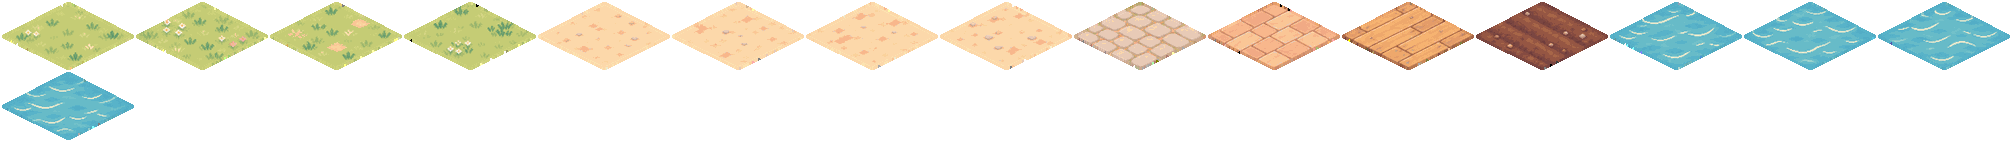
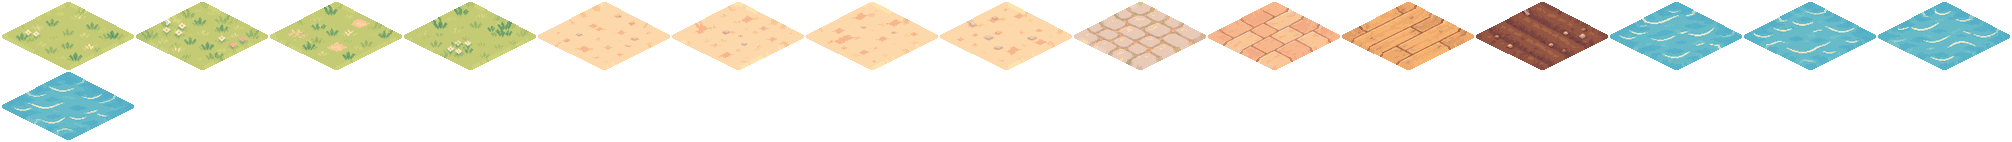
Mano Colony: isometric village with free building, decorating and co-op construction
- 96x96 diamond map (centre 48x48 open, eight outer zones), seeded terrain
  with a winding creek, pond, groves and rock fields; every new village gets
  its own seed, saved with it
- build menu by category; free placement with a green/red preview and a
  reason; paths and fences drawn by finger (two fingers move the map),
  repainting is free; gates replace a fence piece and Manos walk through them
- select a building to upgrade, move (free, cancel restores it), demolish
  (50% back, sites 100%, refund once); decorations go to the storage box
- construction is real work: progress is the sum of Manos hammering on site,
  crew +/- with assigned / working counts and a live ETA
- renderer: culled ground with shorelines and path fringes, depth by footprint,
  mip copies for smooth zoomed-out views; drag, pinch, wheel, zoom buttons
- save v3 with migration from v1/v2 (old save kept under pre-v3, never
  overwritten on failure); storage notice on first run and in settings
- assets rebuilt from the 13 new sheets (originals kept untouched)

Claude-Session: https://claude.ai/code/session_0129eFqVev3PTL5Z78DGK587

diff --git a/src/colony/ColonyPage.jsx b/src/colony/ColonyPage.jsx
@@ -284,7 +284,8 @@ export default function ColonyPage({ exitHref = '#/' }) {
       g.active = true
       g.wasFull = s.manos.length >= homes(s)
       if (!s.notice.storage) queue.unshift({ kind: 'notice', first: true })
-      if (notes.length) queue.push({ kind: 'notes', title: noteTitle || '알림', notes })
+      // things to read go in a box; a short confirmation is a toast
+      if (notes.length && noteTitle) queue.push({ kind: 'notes', title: noteTitle, notes })
       setModals(queue)
       setSel(null)
       setMode(null)
@@ -293,6 +294,7 @@ export default function ColonyPage({ exitHref = '#/' }) {
       if (store.available) g.save()
       else setSaveState({ ok: false, error: 'unavailable' })
       g.lookHome?.()
+      if (!noteTitle) setTimeout(() => notes.forEach((n) => toast(n, n, 'info')), 50)
     }
 
     g.fromStorage = () => {
@@ -314,7 +316,10 @@ export default function ColonyPage({ exitHref = '#/' }) {
       if (r.data && (r.data.tutorial.step > 0 || r.data.buildings.length)) r.data.tutorial.done = true
       const notes = []
       let title = ''
-      if (r.status === 'restored') notes.push('저장본이 손상되어 직전 백업으로 복구했어요.')
+      if (r.status === 'restored') {
+        title = '저장 데이터 복구'
+        notes.push('저장본이 손상되어 직전 백업으로 복구했어요. 손상된 데이터는 따로 보관해 두었어요.')
+      }
       if (r.status === 'migrated' || (r.status === 'restored' && r.from < SAVE.version)) {
         title = '새 마을 지도로 옮겼어요'
         notes.push('예전 저장을 새 대각선 지도로 옮겼어요. 자원·주민·건물 레벨과 공사 진행은 그대로예요.', ...(r.notes || []))
@@ -752,7 +757,7 @@ export default function ColonyPage({ exitHref = '#/' }) {
       const r = m.tool === 'fence' ? sim.placeFence(S, W, cells) : sim.paintFloors(S, W, m.tool === 'erase' ? null : m.type, cells)
       if (!r.ok) return toast(reasonText(r), 'paint', 'warn')
       g.save()
-      toast(m.tool === 'erase' ? `${r.count}칸을 지웠어요.` : `${r.count}칸을 깔았어요.`, 'paint', 'good')
+      toast(m.tool === 'erase' ? `${r.count}칸을 지웠어요.` : m.tool === 'fence' ? `울타리 ${r.count}칸을 놓았어요.` : `${r.count}칸을 깔았어요.`, 'paint', 'good')
       setMode({ ...m, a: null, b: null })
     }
   }
@@ -846,13 +851,13 @@ export default function ColonyPage({ exitHref = '#/' }) {
       g.store.backupNow() // the progress being replaced stays in the backup slot
     } else if (info.raw) g.store.keepCorrupt(info.raw)
     data.notice.storage = true
-    g.play(data, r.migrated ? ['백업을 불러왔어요.', ...r.notes] : ['백업을 불러왔어요.'], '백업 불러오기')
+    g.play(data, r.migrated ? ['백업을 불러왔어요.', ...r.notes] : ['백업을 불러왔어요.'], r.migrated ? '백업 불러오기' : '')
   }
   const doReset = () => {
     g.store.reset()
     const ns = newGame(Date.now(), newSeed())
     ns.notice.storage = true
-    g.play(ns, ['새 마을을 시작했어요. 지형도 새로 만들어졌어요.'], '새 마을')
+    g.play(ns, ['새 마을을 시작했어요. 지형도 새로 만들어졌어요.'])
   }
   const takeOver = () => {
     setPhase('loading')
@@ -880,7 +885,7 @@ export default function ColonyPage({ exitHref = '#/' }) {
         onFresh={() => {
           g.store.keepCorrupt(info.raw)
           const ns = newGame(Date.now(), newSeed())
-          g.play(ns, ['새 마을을 시작했어요. 손상된 데이터는 따로 보관해 두었어요.'], '새 마을')
+          g.play(ns, ['새 마을을 시작했어요. 손상된 데이터는 따로 보관해 두었어요.'])
         }}
       />
     )
@@ -1682,7 +1687,7 @@ function Modal({ modal, s, onClose, onImport, onReset, onExport, onPickFile, onD
         <h2 className="mc-modal__title">{cancel ? `${name} 공사를 취소할까요?` : `${josa(name, '을', '를')} 철거할까요?`}</h2>
         <p className="mc-card__text">
           돌려받는 자원: <b>{resText(p.refund) || '없음'}</b>
-          {cancel ? ' (낸 비용 전부)' : ' (쓴 비용의 절반, 진행 중인 업그레이드는 전부)'}
+          {cancel ? ' (낸 비용 전부)' : b && b.build ? ' (쓴 비용의 절반 + 진행 중인 업그레이드 비용 전부)' : ' (쓴 비용의 절반)'}
         </p>
         {p.after.homes !== p.before.homes && (
           <p className="mc-card__text">

diff --git a/src/colony/render.js b/src/colony/render.js
@@ -114,6 +114,27 @@ function tileSet(A) {
   return { base, shore, fringe }
 }
 
+// Half / quarter size copies, made once with good filtering. Drawing from the
+// copy nearest the size on screen keeps zoomed-out views smooth and sharp
+// with cheap (bilinear) scaling.
+const mipCache = new WeakMap()
+function mip(src, lv) {
+  if (!lv) return src
+  let m = mipCache.get(src)
+  if (!m) mipCache.set(src, (m = []))
+  if (!m[lv]) {
+    const prev = mip(src, lv - 1)
+    const pw = prev.naturalWidth || prev.width
+    const ph = prev.naturalHeight || prev.height
+    const [c, g] = canvas(Math.max(1, Math.ceil(pw / 2)), Math.max(1, Math.ceil(ph / 2)))
+    g.imageSmoothingQuality = 'high'
+    g.drawImage(prev, 0, 0, c.width, c.height)
+    m[lv] = c
+  }
+  return m[lv]
+}
+const levelFor = (s) => (s < 0.3 ? 2 : s < 0.6 ? 1 : 0) // s = screen px per stored px
+
 function frameOf(anim, t) {
   if (anim.durs) {
     const total = anim.durs.reduce((a, b) => a + b, 0)
@@ -210,6 +231,9 @@ export function createRenderer(cvs, A) {
     const f = a && a.frames[name]
     if (!f) return null
     const k = f.k
+    const lv = levelFor((view.zoom * view.dpr) / k)
+    const img = mip(a.img, lv)
+    const d = 2 ** lv
     const w = f.w / k
     const h = f.h / k
     const ax = f.ax / k
@@ -220,9 +244,9 @@ export function createRenderer(cvs, A) {
       ctx.save()
       ctx.translate(X, Y)
       ctx.scale(flip ? -scaleX : scaleX, 1)
-      ctx.drawImage(a.img, f.x, f.y, f.w, f.h, -ax, -ay, w, h)
+      ctx.drawImage(img, f.x / d, f.y / d, f.w / d, f.h / d, -ax, -ay, w, h)
       ctx.restore()
-    } else ctx.drawImage(a.img, f.x, f.y, f.w, f.h, X - ax, Y - ay, w, h)
+    } else ctx.drawImage(img, f.x / d, f.y / d, f.w / d, f.h / d, X - ax, Y - ay, w, h)
     if (filter) ctx.filter = 'none'
     if (alpha !== 1) ctx.globalAlpha = 1
     const left = flip ? X - (w - ax) : X - ax
@@ -264,12 +288,28 @@ export function createRenderer(cvs, A) {
     const k = view.dpr * view.zoom
     ctx.setTransform(k, 0, 0, k, (view.w / 2 - view.x * view.zoom) * view.dpr, (view.h / 2 - view.y * view.zoom) * view.dpr)
     ctx.imageSmoothingEnabled = true
-    ctx.imageSmoothingQuality = 'high'
+    ctx.imageSmoothingQuality = 'low' // see mip(): sharper results come from the pre-shrunk copies
+    const tileLv = levelFor((view.zoom * view.dpr) / 2)
     const R = visibleRange()
     const { water } = world.gen
     const waterFrame = Math.floor(time / 0.9) % 4
 
-    // 1. ground
+    // 1. ground (the map diamond is filled with grass colour first, so the
+    // hairline where four tiles meet never shows the dark outside)
+    {
+      const a = iso(0, 0)
+      const b = iso(MAP, 0)
+      const c = iso(MAP, MAP)
+      const d = iso(0, MAP)
+      ctx.fillStyle = '#bcc673'
+      ctx.beginPath()
+      ctx.moveTo(a.X, a.Y)
+      ctx.lineTo(b.X, b.Y)
+      ctx.lineTo(c.X, c.Y)
+      ctx.lineTo(d.X, d.Y)
+      ctx.closePath()
+      ctx.fill()
+    }
     for (let y = R.y0; y <= R.y1; y++) {
       for (let x = R.x0; x <= R.x1; x++) {
         const c = iso(x + 0.5, y + 0.5)
@@ -287,7 +327,7 @@ export function createRenderer(cvs, A) {
           const h = hash(x, y)
           img = tiles.base['grass_' + Math.floor(h * 4) + (hash(x, y, 1) < 0.5 ? '~' : '')]
         }
-        ctx.drawImage(img, c.X - 33, c.Y - 17, 66, 34)
+        ctx.drawImage(mip(img, tileLv), c.X - 33, c.Y - 17, 66, 34)
         const f = world.floor[i]
         if (f) {
           const t = FLOOR_TYPES[f - 1]
@@ -296,7 +336,7 @@ export function createRenderer(cvs, A) {
           if (x < MAP - 1 && world.floor[i + 1] !== f) mask |= 2
           if (y < MAP - 1 && world.floor[i + MAP] !== f) mask |= 4
           if (x > 0 && world.floor[i - 1] !== f) mask |= 8
-          ctx.drawImage(tiles.fringe[t][mask], c.X - 33, c.Y - 17, 66, 34)
+          ctx.drawImage(mip(tiles.fringe[t][mask], tileLv), c.X - 33, c.Y - 17, 66, 34)
         }
       }
     }

diff --git a/src/colony/sim.js b/src/colony/sim.js
@@ -755,22 +755,28 @@ function staffSites(s, world) {
     if (crew.length === want) continue
     const spots = around(world, { kind: 'building', x: b.x, y: b.y })
     const taken = crew.map((m) => m.task.spot)
-    const free = spots.filter(([x, y]) => !taken.some(([a, c]) => a === x && c === y))
+    const open = spots.filter(([x, y]) => !taken.some(([a, c]) => a === x && c === y))
+    // work from the two sides facing the viewer while there is room there
+    const front = open.filter(([x, y]) => x === b.x + 3 || y === b.y + 3)
+    const free = front.length >= want - crew.length ? front : open
     const pool = s.manos
       .filter((m) => !(m.task && m.task.kind === 'build') && !recentlyFailed(s, m, b.id))
       .sort((a, c) => rank(a) - rank(c) || d2(a, b.x + 1, b.y + 1) - d2(c, b.x + 1, b.y + 1))
     for (const m of pool) {
       if (tasksOf(s, (t) => t.kind === 'build' && t.b === b.id).length >= want || !free.length) break
-      const r = route(s, world, m, free)
+      // leave a tile between workers when there is room, so each one shows
+      const spaced = free.filter(([x, y]) => !taken.some(([a, c]) => Math.abs(a - x) <= 1 && Math.abs(c - y) <= 1))
+      const r = route(s, world, m, spaced.length ? spaced : free)
       if (!r) {
         failed(s, m, b.id)
         continue
       }
-      // remember what she was doing, to go back to it when the site is done
+      // remember the job, to go back to it when the site is done
       if (m.task && m.task.kind === 'gather') m.resume = m.task.node
       m.task = { kind: 'build', b: b.id, phase: 'go', spot: r.stand, t: 0 }
       setPath(m, r.stand, r.path)
       free.splice(free.findIndex(([x, y]) => x === r.stand[0] && y === r.stand[1]), 1)
+      taken.push(r.stand)
     }
   }
 }

diff --git a/src/colony/save.js b/src/colony/save.js
@@ -129,7 +129,7 @@ function cost(c, what) {
 // Placement mistakes (two things on one tile) are repaired, never fatal:
 // a building that does not fit goes to the storage box, a decoration too.
 export function validate(d) {
-  must(isObj(d), '데이터 형식이 아니에요')
+  must(isObj(d), '저장 내용의 형식이 맞지 않아요')
   const seed = int(d.seed) && d.seed > 0 ? d.seed : DEFAULT_SEED
   const gen = generate(seed)
 
@@ -337,7 +337,7 @@ const costOfLevels = (type, upTo) => {
 const MIGRATIONS = {
   // v1 (development format): totals, a building list, a head count
   1: (d) => {
-    must(isObj(d), '데이터 형식이 아니에요')
+    must(isObj(d), '저장 내용의 형식이 맞지 않아요')
     const now = fin(d.savedAt) ? d.savedAt : Date.now()
     const n = int(d.manoCount) ? Math.max(1, Math.min(d.manoCount, MAX_MANOS)) : START.manos
     return {
@@ -356,7 +356,7 @@ const MIGRATIONS = {
 
   // v2 (first demo: 20×34 map, fixed lots) → v3 (96×96 diamond map)
   2: (d) => {
-    must(isObj(d) && isObj(d.res) && Array.isArray(d.buildings) && Array.isArray(d.manos) && isObj(d.clock), '데이터 형식이 아니에요')
+    must(isObj(d) && isObj(d.res) && Array.isArray(d.buildings) && Array.isArray(d.manos) && isObj(d.clock), '저장 내용의 형식이 맞지 않아요')
     for (const r of RESOURCES) must(fin(d.res[r]) && d.res[r] >= 0, '자원 값이 올바르지 않아요')
     must(d.manos.length >= 1 && d.manos.length <= MAX_MANOS, '주민 정보가 올바르지 않아요')
     const notes = []

diff --git a/src/colony/colony.css b/src/colony/colony.css
@@ -172,12 +172,13 @@
 .mc-toasts {
   position: absolute;
   top: 8px;
-  left: 50%;
+  left: max(10px, env(safe-area-inset-left));
+  right: 64px;
   z-index: 3;
   display: grid;
   gap: 6px;
-  width: min(92%, 420px);
-  transform: translateX(-50%);
+  max-width: 420px;
+  margin: 0 auto;
   pointer-events: none;
 }
 
@@ -1046,6 +1047,43 @@
   }
   .mc-seg button {
     padding: 0 9px;
+  }
+}
+
+/* phone turned sideways: one slim bar on top, slim buttons below */
+@media (orientation: landscape) and (max-height: 520px) {
+  .mc-top {
+    grid-template-columns: auto minmax(0, 1fr);
+    align-items: center;
+    gap: 8px;
+    padding-top: calc(4px + env(safe-area-inset-top));
+    padding-bottom: 4px;
+  }
+  .mc-title {
+    display: none;
+  }
+  .mc-bar {
+    padding-top: 4px;
+    padding-bottom: calc(4px + env(safe-area-inset-bottom));
+  }
+  .mc-bar__btn {
+    grid-auto-flow: column;
+    align-items: center;
+    justify-content: center;
+    gap: 6px;
+    min-height: 44px;
+    padding: 2px;
+  }
+  .mc-bar__btn img {
+    width: 24px;
+    height: 24px;
+  }
+  .mc-sheet {
+    max-height: 86%;
+  }
+  .mc-zoom {
+    gap: 4px;
+    top: 6px;
   }
 }
 

diff --git a/scripts/colony-assets.py b/scripts/colony-assets.py
@@ -58,7 +58,9 @@ def tile(a, mask):
     ImageDraw.Draw(dm).polygon([(BLEED + w / 2, BLEED - 0.5), (BLEED + w + 0.5, BLEED + h / 2),
                                 (BLEED + w / 2, BLEED + h + 0.5), (BLEED - 0.5, BLEED + h / 2)], fill=255)
     inside = np.array(dm) > 0
-    solid = inside & (out[..., 3] > 0)
+    # colour is taken from 2px inside the diamond, so a dark outline drawn
+    # around the tile on the sheet never shows up as dots where tiles meet
+    solid = ndimage.binary_erosion(inside, iterations=2) & (out[..., 3] > 0)
     _, (iy, ix) = ndimage.distance_transform_edt(~solid, return_indices=True)
     grow = ndimage.binary_dilation(inside, iterations=BLEED)
     res = np.zeros_like(out)

diff --git a/assets-src/colony/README.md b/assets-src/colony/README.md
@@ -1,34 +1,46 @@
 # Mano Colony art sources
 
-`originals/` holds the nine sheets exactly as delivered (never edited):
+`originals-v2/` holds the thirteen sheets the isometric game is built from,
+exactly as delivered (never edited):
 
 | file | contents |
 | --- | --- |
-| `mano-move.png` | Mano walking: front, right, left, back (4 frames each) |
-| `mano-work.png` | axe, pickaxe, carrying a log, hammer (4 frames each) |
-| `mano-extra.png` | front run, carrying a stone, carrying a stardust pouch, sit / sleep / cheer / wave |
-| `buildings.png` | house, lumber mill, quarry, storage — levels 1–3 |
-| `props-nature.png` | trees, rocks, crystals in three stages; sakura, bush, flowers, camp crate |
-| `props-deco.png` | fences, lantern, sign, planter, bench, building plot, scaffold, lumber pile, … |
-| `effects.png` | dust puff, sparkle, stars, hearts (4 frames each) |
-| `ui-icons.png` | resource, building and menu icons |
-| `tiles.png` | grass, sand, dirt, wood, stone and water textures |
+| `mano-move.png` | Mano walking toward the viewer, down-right and down-left (4 frames each) |
+| `mano-back.png` | Mano walking away, up-right and up-left (used for every walk away from the viewer) |
+| `mano-work.png` | axe, pickaxe, hammer and gathering stardust (4 frames each) |
+| `mano-carry-rest.png` | carrying wood / stone / stardust, standing, sitting, sleeping, cheering |
+| `buildings.png` | house, lumber mill, quarry, storage — levels 1–3, isometric |
+| `nature.png` | oak, pine, sakura, sapling, bushes, stump, rocks and crystals in three stages, camp crate |
+| `street-props.png` | fence pieces, gate, hedges, benches, lamps, signpost, board, banner |
+| `garden-props.png` | planters, flower beds, fountain, cat statue, arch, pergola, picnic things, well, … |
+| `water-construction.png` | bridges, dock, cattails, lilies, boat, building plot, frame, scaffold, carts |
+| `effects.png` | poof, sparkle, dust, hearts (4 frames each) |
+| `iso-tiles.png` | 2:1 diamond tiles: grass, sand, cobble, brick, planks, soil, water |
+| `ui-icons.png` | resource, building, action and menu icons |
+| `terrain-edges.png` | water edge pieces — kept, but not used (the game draws its own shorelines) |
 
-`manifest.json` lists every object taken from them, its name and its size in the
-game. `scripts/colony-assets.py` turns the originals into the game files in
-`src/colony/assets/` (those are committed, so building the site needs nothing
-from here):
+`originals/` holds the nine sheets of the first, top-down version; they are kept
+as delivered and no longer used.
 
-- the sheets' near-opaque pixels (alpha ~250) become fully opaque and the faint
-  coloured noise around every drawing (alpha 1–60) is removed;
-- each object is cut out by its own connected pixels and the grid cell its
-  centre falls in, so neighbours never bleed into each other;
-- Mano frames share one scale and are anchored at the feet and the head centre
-  so animations do not wobble; left-facing actions mirror the right-facing frames;
-- textures drop the 1–2 px lines between cells and are blended at the edges so
-  they repeat without seams;
-- everything is resized for the game (2× for sharp phones) and packed into
-  atlases with a JSON file of frame rectangles and anchors.
+`manifest-v2.json` lists every object taken from the sheets: its name, the atlas
+it goes to and its size in the game (`k` = source pixels per game pixel). Where
+drawings touch, an explicit `box` (and `anchor`, the point that stands on the
+ground) is given. `scripts/colony-assets.py` turns the originals into the game
+files in `src/colony/assets/` (those are committed, so building the site needs
+nothing from here):
+
+- transparency is cleaned softly: faint noise around drawings is removed, but
+  semi-transparent edges and thin lines keep their alpha (nothing is forced to
+  fully opaque, nothing is cut by a hard threshold);
+- each object is cut out by its own connected pixels inside its grid cell, so
+  neighbours never bleed into each other;
+- every Mano sheet is scaled so Mano stands the same height (52 game px) and
+  frames are anchored at the feet, so animations do not wobble;
+- diamond tiles are resized to exactly 64 × 32 (stored at 2×), masked to the
+  diamond, and their colour is bled 1 px outward from 2 px inside the edge, so
+  tiles meet without seams or dark dots;
+- everything is stored at 2× (sharp on phones) and packed into atlases with a
+  JSON file of frame rectangles, anchors and scale.
 
 Re-run after changing the manifest: `python3 scripts/colony-assets.py`
 (needs Python 3 with Pillow, numpy and scipy).
